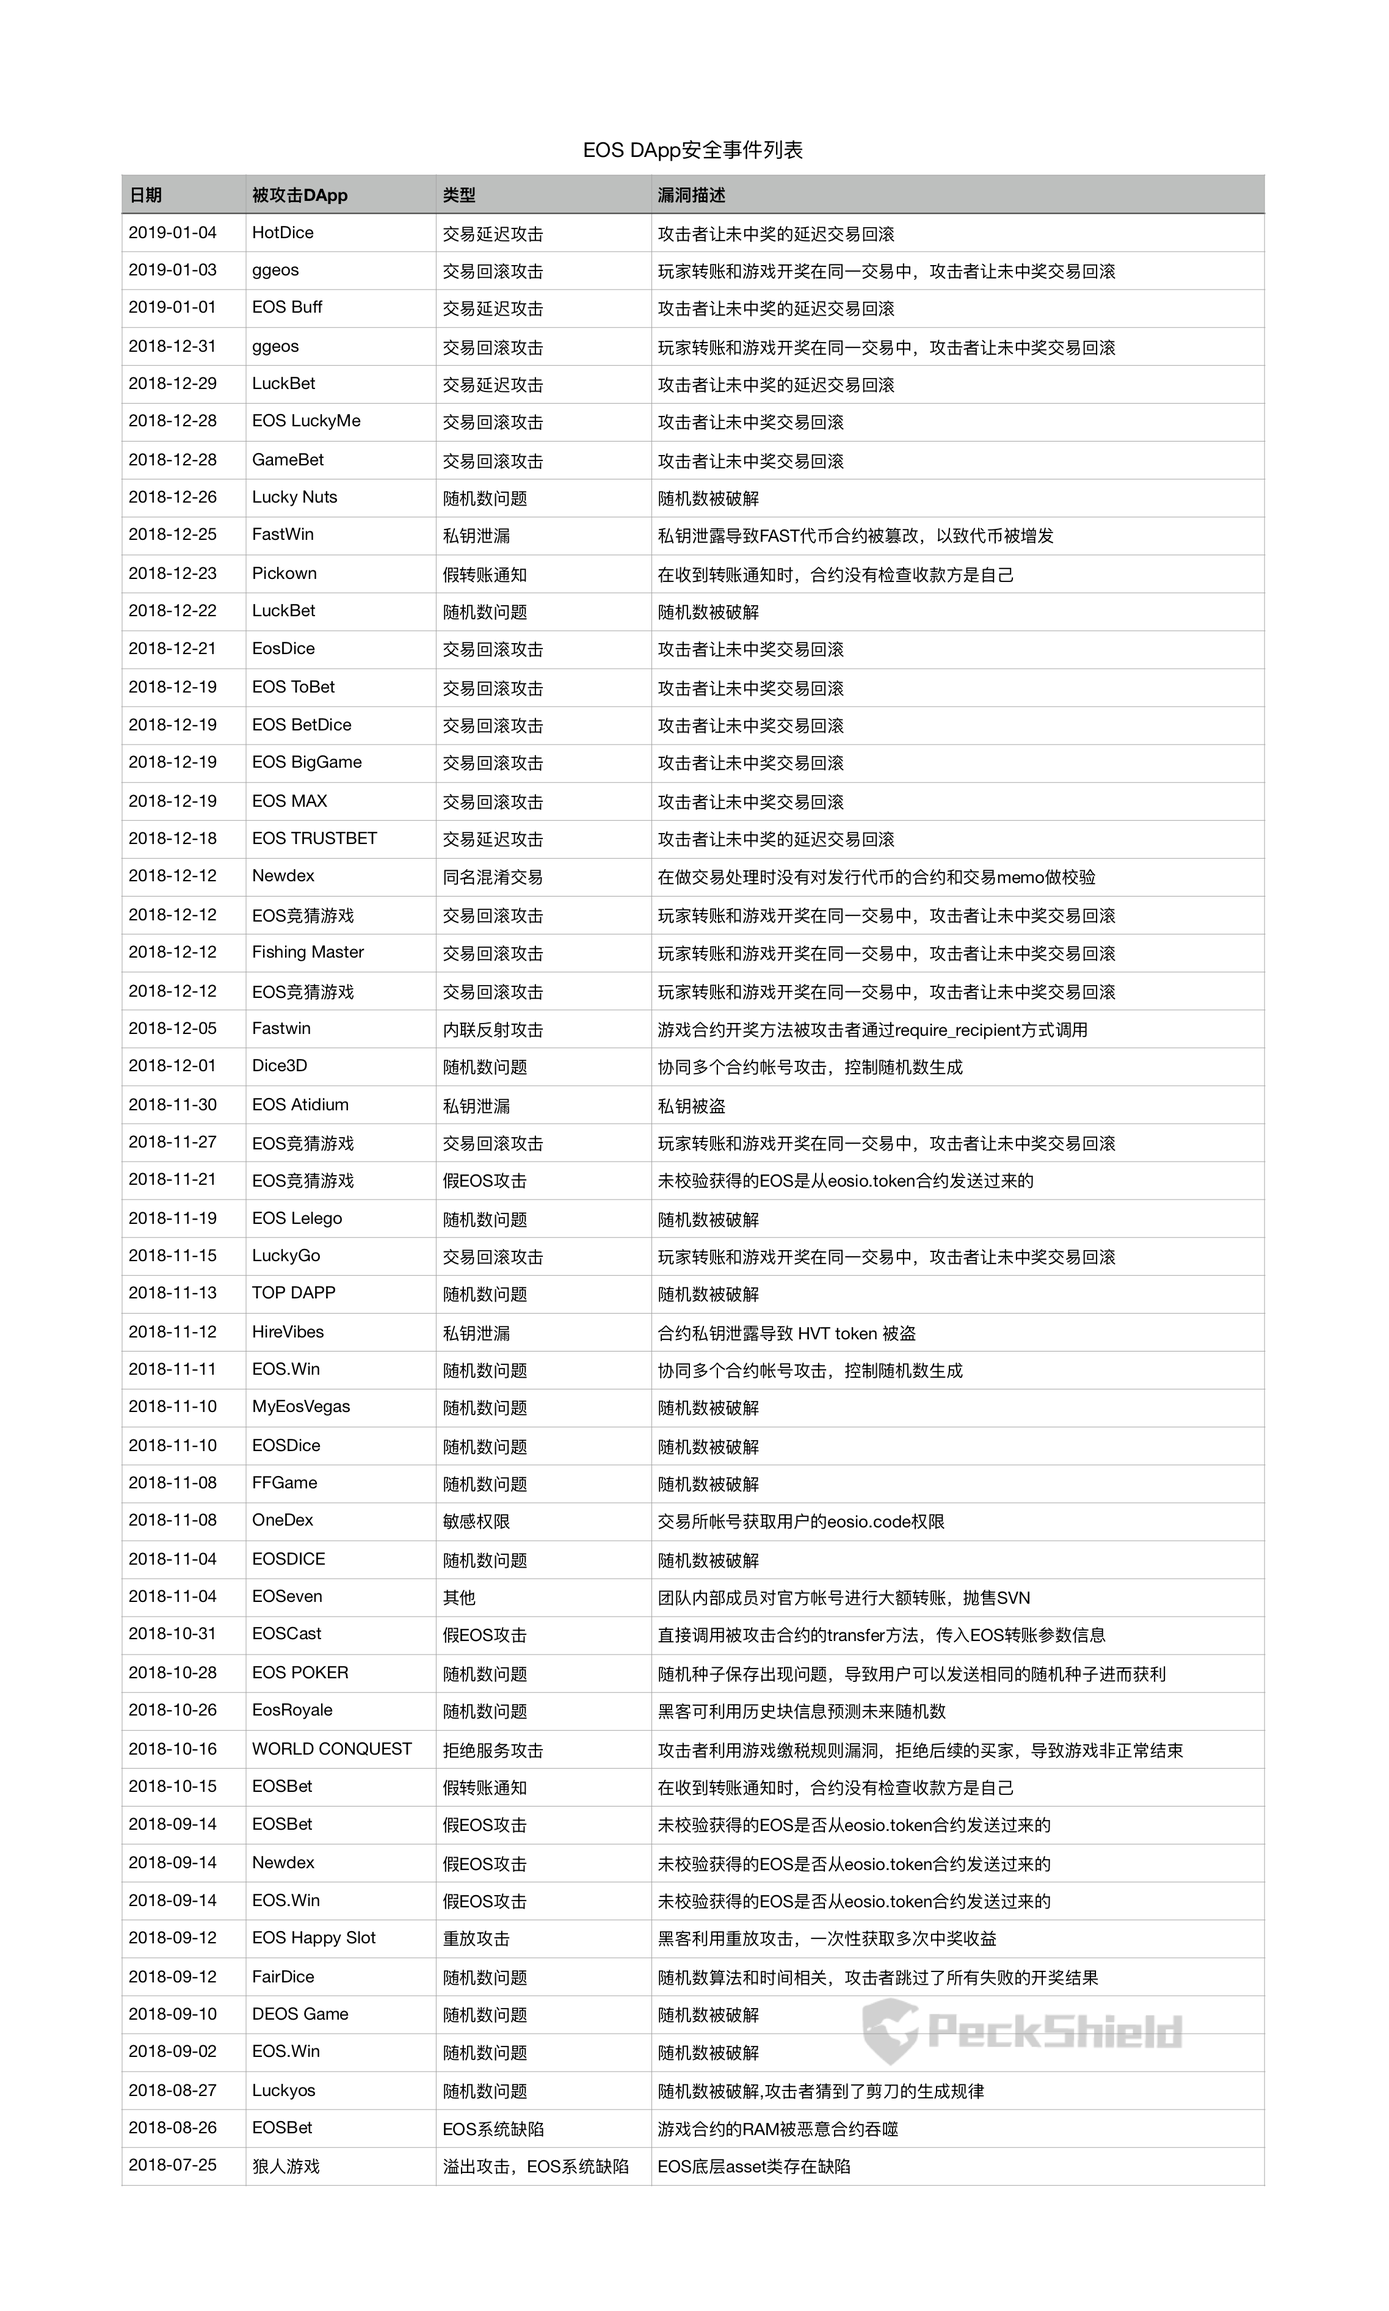
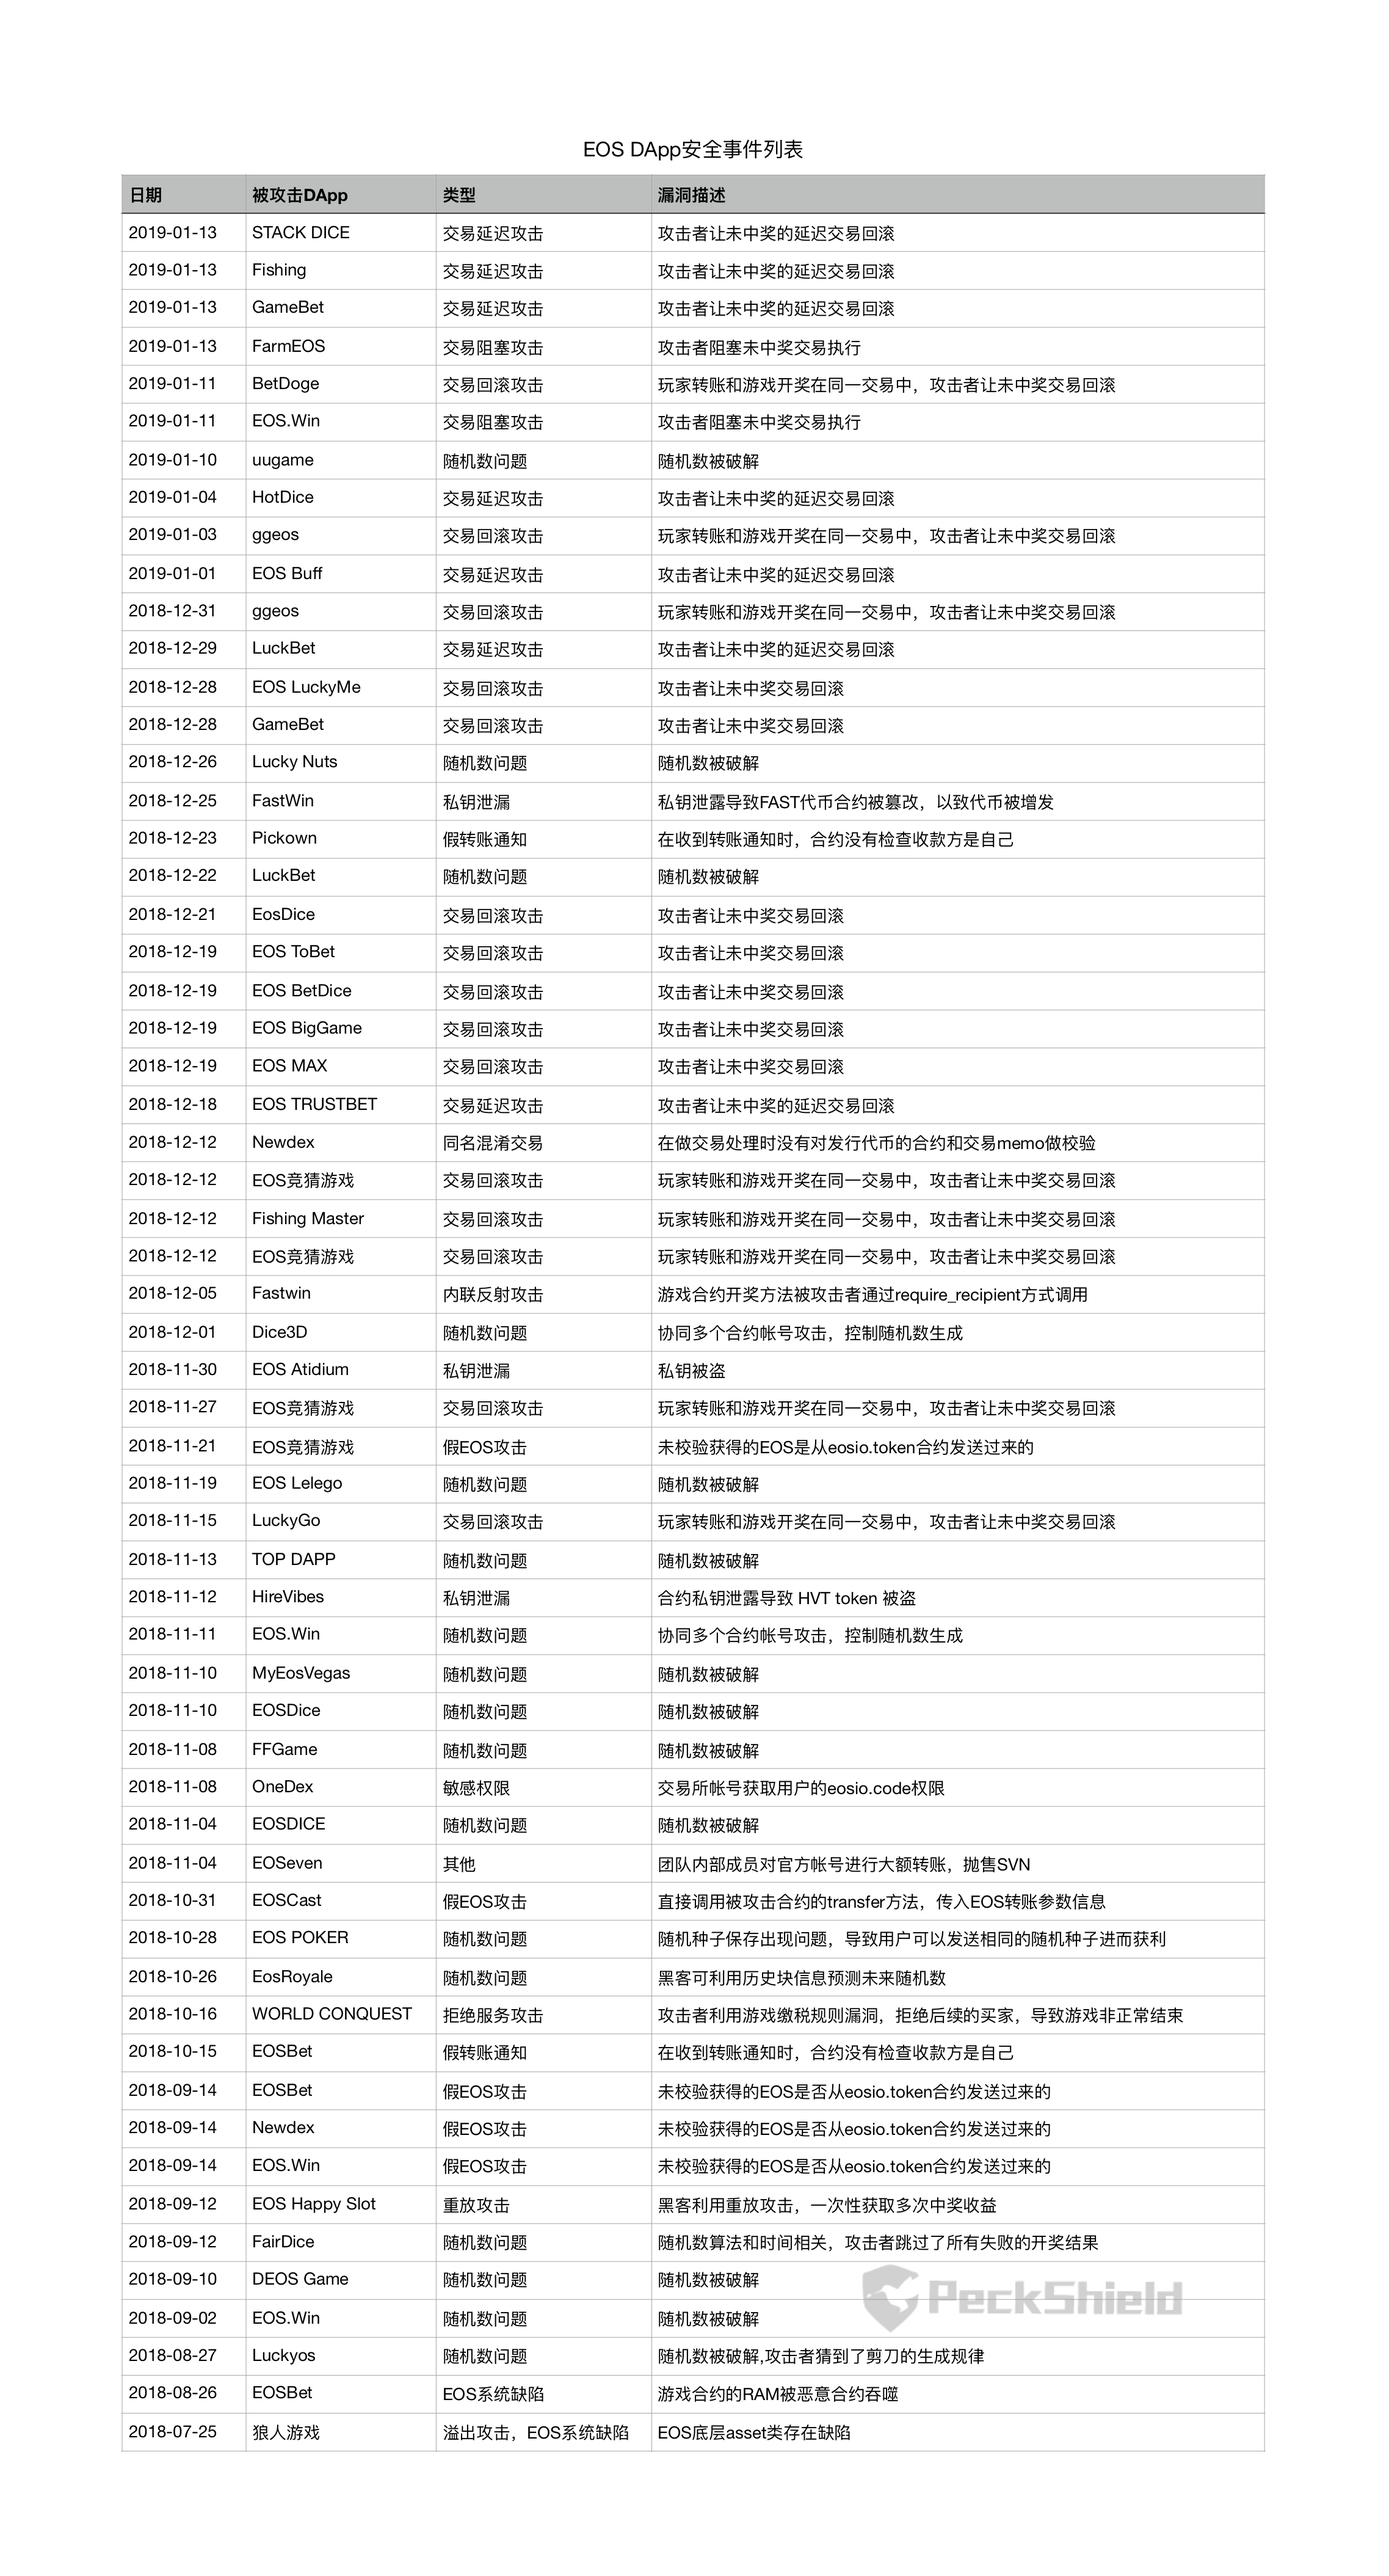
upate 2019-01-13

Changed region(s): [[0.0624, 0.0312, 0.9363, 0.9667]]

diff --git a/known_dapp_attacks/README.md b/known_dapp_attacks/README.md
@@ -3,11 +3,11 @@
 本文档根据发生的EOS DApp安全事件不定期更新，旨在记录EOS主网上线以来发生的各类DApp安全事件，供大家参考，同时欢迎大家对该文档提出建议及指正，以完善文档，一起促进EOS的生态健康发展。
 
 ## 概要
-截至2019年01月04日，共发生52起DApp安全事件，共损失近75万个EOS
+截至2019年01月13日，共发生59起DApp安全事件，共损失近76万个EOS
 ![EOS DApp安全事件列表](dapp_attacks_summary.png)
 
 ## EOS DApp安全事件列表
-截至2019年01月04日的安全事件列表：
+截至2019年01月13日的安全事件列表：
 ![EOS DApp安全事件列表](eos_dapp_attacks.png)
 
 ## EOS DApp安全事件历史版本
